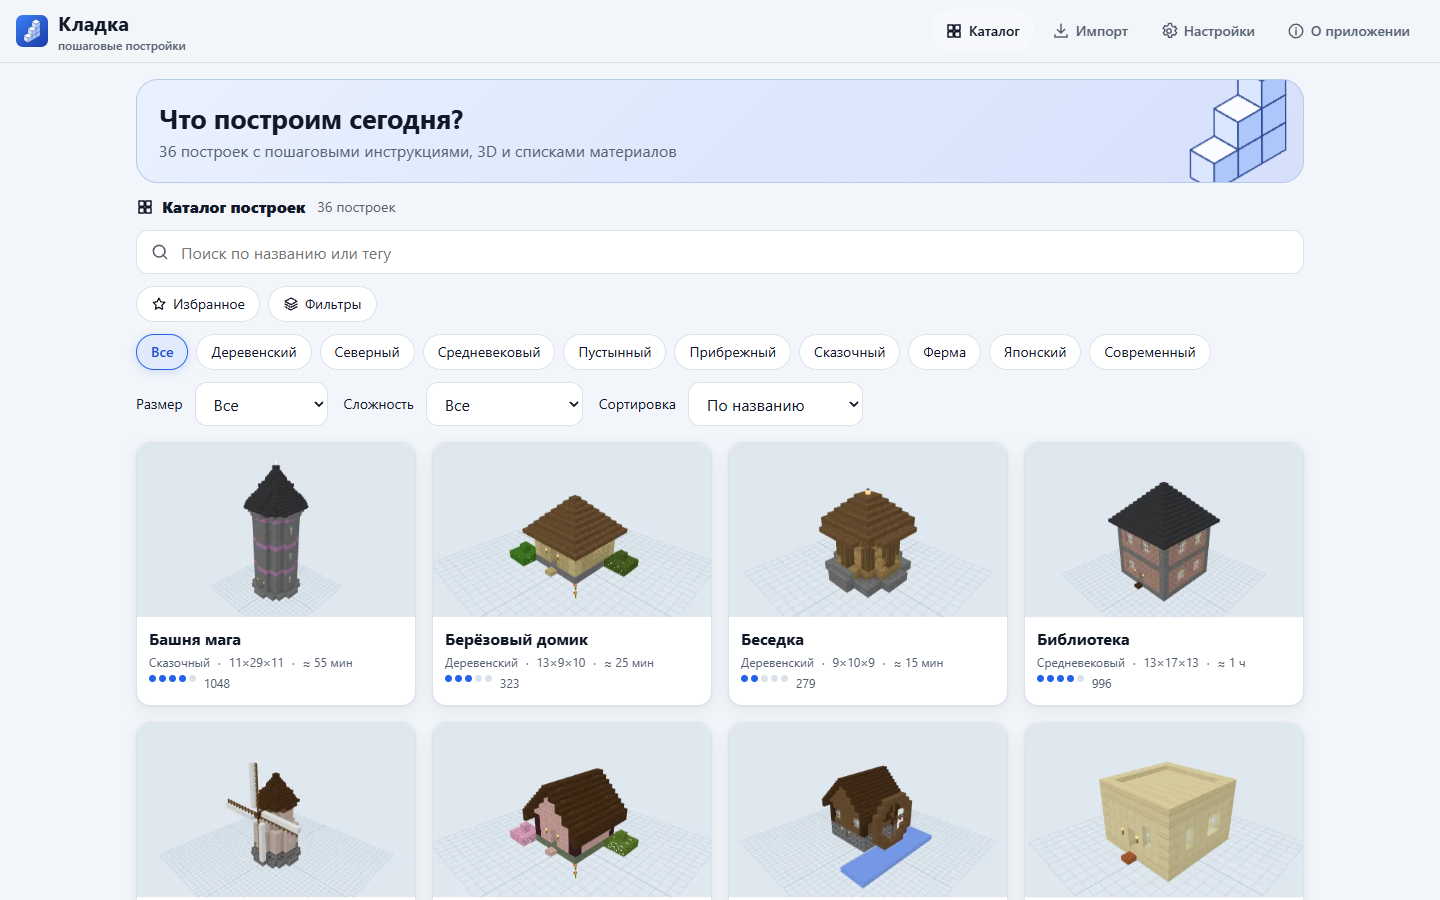
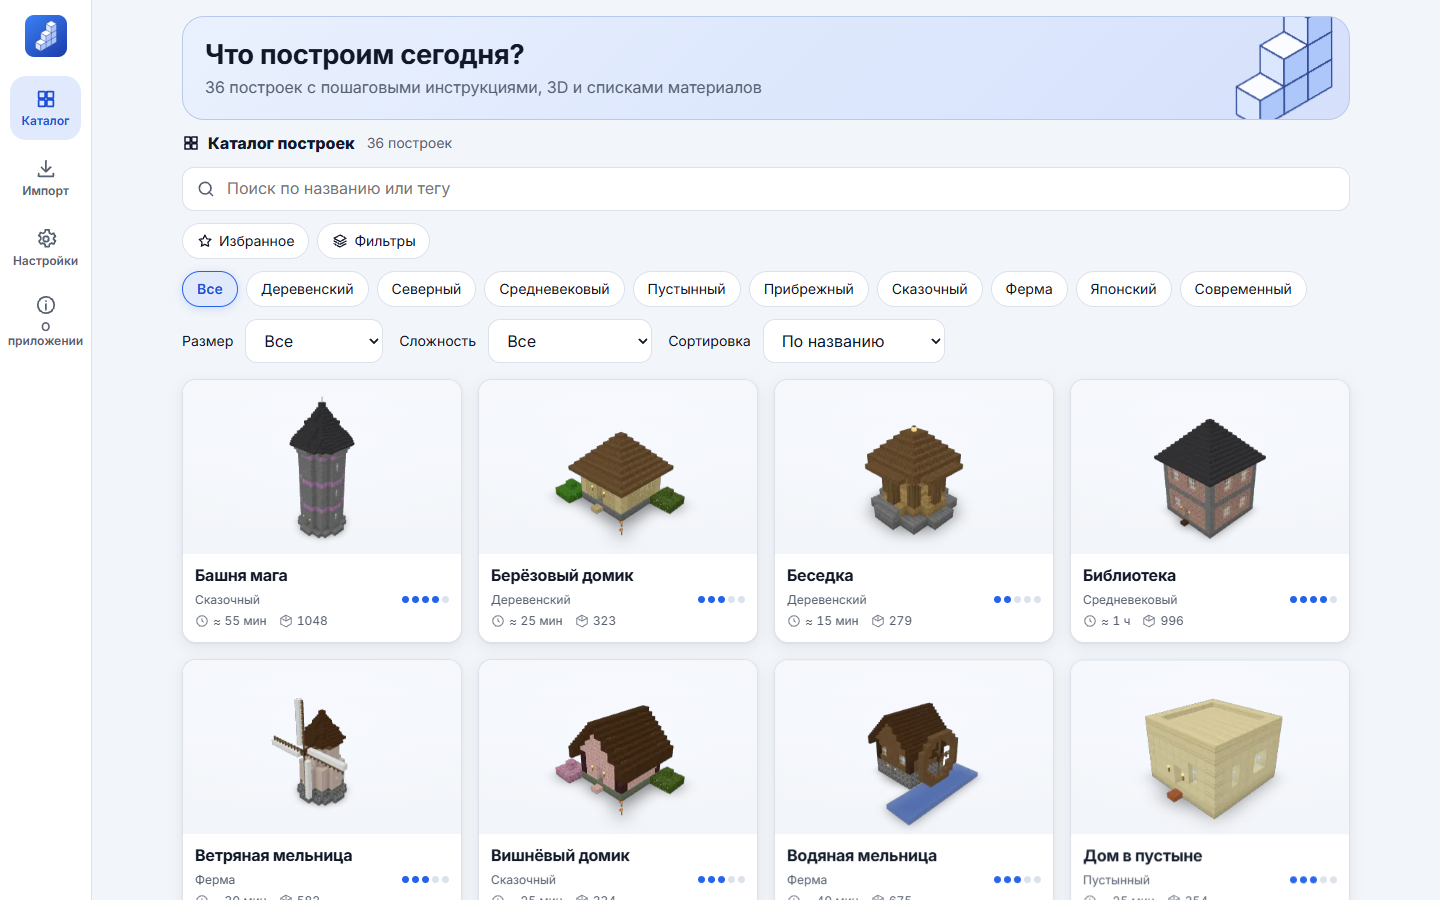
feat(ui): navigation rail on wide screens, centred plan; docs, licences and screenshots

diff --git a/apps/app/src/styles/polish.css b/apps/app/src/styles/polish.css
@@ -1220,3 +1220,81 @@ h3,
   fill: var(--accent);
   font: 800 26px var(--font);
 }
+
+/* ---------- wide screens: navigation rail on the left ----------
+   Laptops and landscape tablets are short: moving the navigation to a side rail gives the 3D view and the
+   step panel the full height. */
+@media (min-width: 1100px) {
+  :root {
+    --topbar-h: 0px;
+  }
+  .app {
+    display: grid;
+    grid-template-columns: 92px minmax(0, 1fr);
+    align-items: start;
+  }
+  .topbar {
+    grid-column: 1;
+    grid-row: 1;
+    position: sticky;
+    top: 0;
+    height: 100dvh;
+    flex-direction: column;
+    align-items: stretch;
+    gap: 18px;
+    padding: calc(14px + var(--safe-top)) 10px 14px;
+    border-bottom: 0;
+    border-right: 1px solid var(--border);
+    background: var(--surface);
+    backdrop-filter: none;
+  }
+  .topbar .brand {
+    justify-content: center;
+  }
+  .topbar .brand > span {
+    display: none;
+  }
+  .topbar .brand img {
+    width: 42px;
+    height: 42px;
+  }
+  .topnav {
+    margin-left: 0;
+    flex-direction: column;
+    gap: 6px;
+  }
+  .topnav a {
+    flex-direction: column;
+    justify-content: center;
+    gap: 4px;
+    min-height: 64px;
+    padding: 8px 4px;
+    border-radius: 16px;
+    font-size: var(--fs-xs);
+    text-align: center;
+    line-height: 1.15;
+  }
+  .topnav a[aria-current="page"] {
+    background: var(--accent-soft);
+    color: var(--accent-strong);
+  }
+  main.page {
+    grid-column: 2;
+    grid-row: 1;
+  }
+  .toast {
+    bottom: calc(28px + var(--safe-bottom));
+  }
+}
+
+/* the 2D plan sits in the middle of its pane instead of the top-left corner */
+.guide-stage .plan-host {
+  display: grid;
+  place-items: center;
+}
+@media (min-width: 1100px) {
+  .topnav a svg {
+    width: 22px;
+    height: 22px;
+  }
+}

diff --git a/apps/app/src/styles/app.css b/apps/app/src/styles/app.css
@@ -12,6 +12,7 @@
   --radius-sm: 10px;
   --tap: 44px;
   --gap: 16px;
+  --topbar-h: 61px; /* sticky top bar; 0 when the navigation rail is used */
   --safe-top: env(safe-area-inset-top, 0px);
   --safe-bottom: env(safe-area-inset-bottom, 0px);
 
@@ -737,7 +738,7 @@ input[type="range"] {
 .guide {
   display: grid;
   grid-template-columns: minmax(0, 1fr) 380px;
-  height: calc(100dvh - 61px - var(--safe-top));
+  height: calc(100dvh - var(--topbar-h) - var(--safe-top));
 }
 .guide-stage {
   display: grid;
@@ -826,7 +827,7 @@ input[type="range"] {
   .guide {
     grid-template-columns: 1fr;
     grid-template-rows: minmax(260px, 46dvh) minmax(0, 1fr);
-    height: calc(100dvh - 61px - var(--safe-top));
+    height: calc(100dvh - var(--topbar-h) - var(--safe-top));
   }
   .guide-stage.split {
     grid-template-columns: 1fr 1fr;
@@ -840,7 +841,7 @@ input[type="range"] {
 .view-page {
   display: grid;
   grid-template-columns: minmax(0, 1fr) 320px;
-  height: calc(100dvh - 61px - var(--safe-top));
+  height: calc(100dvh - var(--topbar-h) - var(--safe-top));
 }
 .view-tools {
   border-left: 1px solid var(--border);

diff --git a/docs/DECISIONS.md b/docs/DECISIONS.md
@@ -172,3 +172,19 @@ As proposed in the brief, with two small additions:
 - All text pairs pass WCAG 2.2 AA (light: text 17.7:1, muted 6.4:1, white on accent 5.2:1; dark: text 14.6:1,
   muted 6.8:1, dark text on accent 7.1:1). The icon, splash, PWA/Android theme colours, 2D plan and 3D highlight
   use the same palette.
+
+## D-018 Visual refinements (2026-11-09)
+
+- **Block icons**: material lists show isometric "inventory" icons drawn with Canvas 2D from the same procedural
+  textures and parametric shapes as the 3D view (or from the user's resource pack). Nothing is shipped as images.
+- **Covers** are rendered on a transparent background (WebP with alpha) with a soft contact shadow, so the same
+  files suit the light and the dark theme; the card behind them draws a theme-aware backdrop.
+- **3D (classic)**: the ground now counts as an occluder for vertex AO (darker bottom edge of the lowest blocks),
+  plus a blurred footprint "contact shadow" when the whole build is shown. New blocks of the next step drop into
+  place (420 ms, skipped with "reduce motion").
+- **Typography**: Inter Variable (OFL-1.1, `@fontsource-variable/inter`) is bundled; tabular numerals for counters.
+- **Stage colours**: stages are ordered, so they use one blue ordinal ramp (foundation darkest → decor lightest),
+  validated with the dataviz ordinal checks (one hue, monotone lightness, ΔL ≥ 0.06, light end ≥ 2:1). Labels
+  always stay in text colours; the 3D "colour by stage" view uses the same ramp with a legend.
+- **Wide screens** (≥ 1100 px): navigation moves to a left rail so the 3D view and the step panel get the full
+  height; the in-game plan zooms to the current step's blocks.

diff --git a/THIRD_PARTY_LICENSES.md b/THIRD_PARTY_LICENSES.md
@@ -21,7 +21,7 @@ WITH MOJANG OR MICROSOFT.
 
 ## Shipped JavaScript dependencies (in the app bundle)
 
-Summary: MIT (14), ISC (2), MIT OR Apache-2.0 (2), Apache-2.0 OR MIT (1), 0BSD (1). No copyleft licenses.
+Summary: MIT (14), ISC (2), MIT OR Apache-2.0 (2), OFL-1.1 (1), Apache-2.0 OR MIT (1), 0BSD (1). No copyleft licenses.
 
 | Package | Version | License |
 | --- | --- | --- |
@@ -31,6 +31,7 @@ Summary: MIT (14), ISC (2), MIT OR Apache-2.0 (2), Apache-2.0 OR MIT (1), 0BSD (
 | @capacitor/filesystem | 8.1.5 | MIT |
 | @capacitor/share | 8.0.3 | MIT |
 | @capacitor/synapse | 1.0.4 | ISC |
+| @fontsource-variable/inter | 5.2.5 | OFL-1.1 |
 | @tauri-apps/api | 2.12.4 | Apache-2.0 OR MIT |
 | @tauri-apps/plugin-dialog | 2.8.4 | MIT OR Apache-2.0 |
 | @tauri-apps/plugin-fs | 2.7.1 | MIT OR Apache-2.0 |
